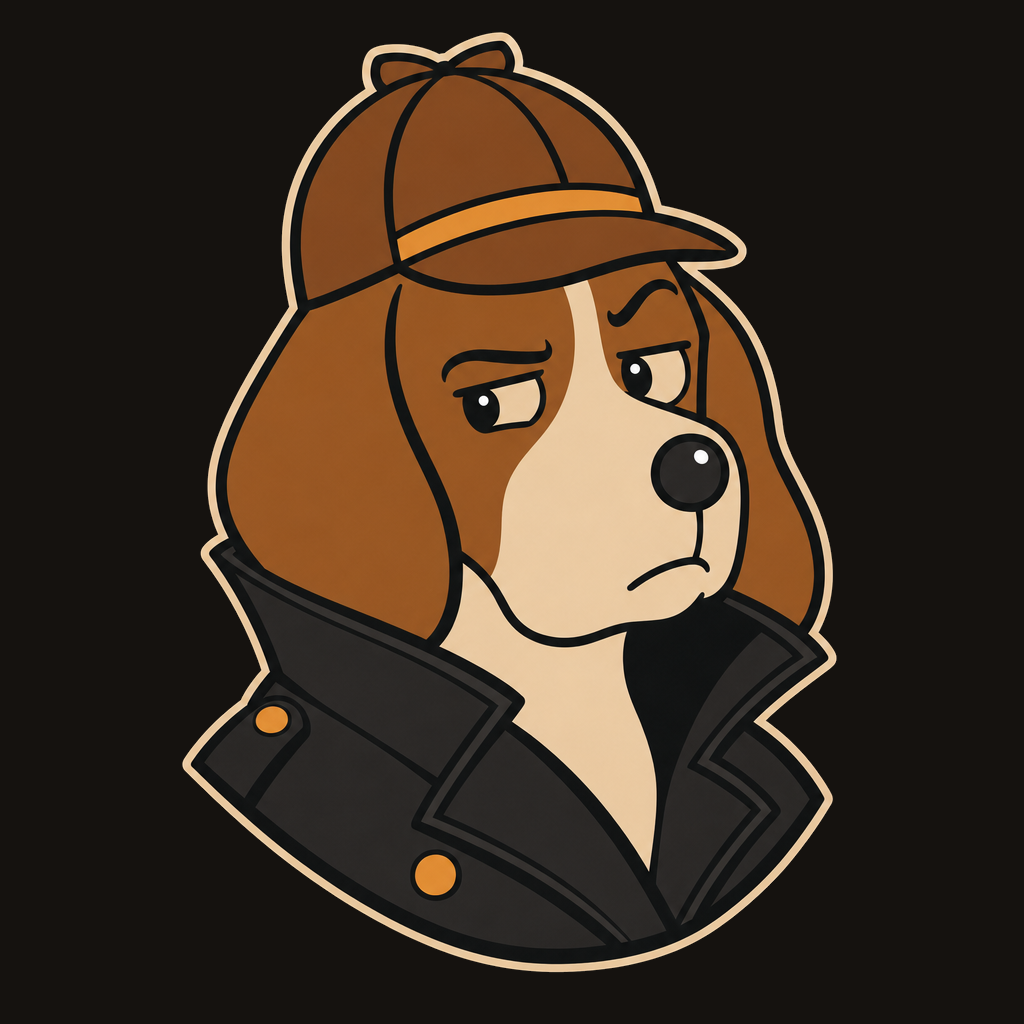
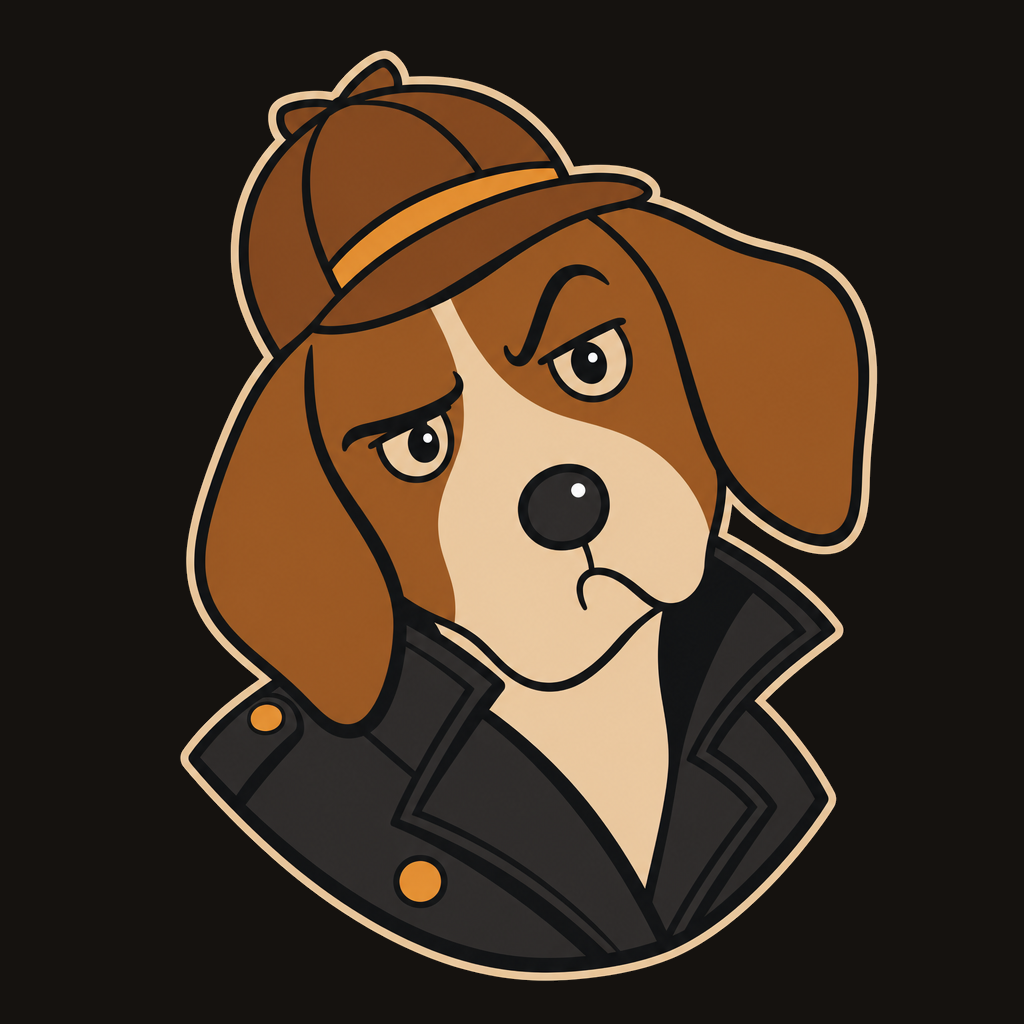
Mascot verdicts: ring + case-file stamp + motion; new SUSPECT face
- Verdict dog gets a colored ring and a CLEARED / SUSPECT / BUSTED stamp;
  the nose no longer changes color (color alone was hard for colorblind users).
- Motion inside the round crop: nod (cleared), shrug (suspect), head shake
  (busted), played twice after the card appears and again on tap; sniff
  bob while loading; disabled under prefers-reduced-motion.
- SUSPECT re-drawn with a strong head tilt and lopsided 'hmm' mouth so it
  reads differently from BUSTED at small sizes.
- Service worker cache bumped to v3.

Claude-Session: https://claude.ai/code/session_01X1qyR4kJrJvFH2XsCXZJ3g

Changed region(s): [[0.1562, 0.0312, 0.875, 0.9688]]

diff --git a/index.html b/index.html
@@ -35,6 +35,23 @@
   .card.show{display:block;animation:pop .25s ease-out}
   @keyframes pop{from{transform:translateY(6px);opacity:0}to{transform:none;opacity:1}}
   .verdict{display:flex;gap:16px;align-items:center}
+  .vdog{position:relative;flex:0 0 auto;cursor:pointer;margin-right:6px}
+  .vdog .ring{stroke:transparent}
+  .vdog[data-v=green]{--v:var(--green)} .vdog[data-v=yellow]{--v:var(--yellow)} .vdog[data-v=red]{--v:var(--red)}
+  .vdog[data-v] .ring{stroke:var(--v)}
+  .stamp{display:none;position:absolute;right:-14px;bottom:-6px;transform:rotate(-12deg);font:800 11px/1 Inter,system-ui,sans-serif;letter-spacing:.12em;padding:4px 6px 3px;border:2px solid currentColor;border-radius:4px;background:rgba(31,26,21,.9);white-space:nowrap}
+  .vdog[data-v] .stamp{display:block;color:var(--v)}
+  /* Mascot motion: the art moves inside the fixed round crop. Units are art pixels (784 ≈ 72 CSS px). */
+  .dog .art,.sniffdog .art{transform-box:view-box;transform-origin:525px 760px}
+  @keyframes nod{0%,100%{transform:none}20%,60%{transform:translateY(60px) rotate(2deg)}40%,80%{transform:translateY(-6px)}}
+  @keyframes shake{0%,100%{transform:none}15%{transform:translateX(-60px) rotate(-4deg)}35%{transform:translateX(60px) rotate(4deg)}55%{transform:translateX(-45px) rotate(-3deg)}75%{transform:translateX(30px) rotate(2deg)}}
+  @keyframes shrug{0%,100%{transform:none}25%,65%{transform:translateY(-50px) rotate(-6deg)}}
+  @keyframes sniff{0%,100%{transform:none}50%{transform:translateY(14px) rotate(1deg)}}
+  .vdog.play[data-v=green] .art{animation:nod 1s ease-in-out .35s 2}
+  .vdog.play[data-v=yellow] .art{animation:shrug 1.4s ease-in-out .35s 2}
+  .vdog.play[data-v=red] .art{animation:shake .9s ease-in-out .35s 2}
+  .loading.show .sniffdog .art{animation:sniff .45s ease-in-out infinite}
+  @media (prefers-reduced-motion:reduce){.dog .art,.sniffdog .art{animation:none!important}}
   .verdict .dog{width:72px;height:72px}
   .verdict h2{font-family:Fraunces,serif;font-weight:800;font-size:24px;margin:0;line-height:1.1}
   .verdict .site{color:var(--muted);font-size:14px;margin-top:6px;word-break:break-all}
@@ -87,7 +104,7 @@
 <body>
 <div class="wrap">
   <header>
-    <svg class="dog" viewBox="133 13 784 784" aria-hidden="true"><image clip-path="url(#bust)" href="art/brisket-idle.svg" width="1024" height="1024"/><circle class="nose" cx="706.0" cy="513.8" r="33.1" fill="#2a2a2a"/><circle class="glint" cx="718.6" cy="497.2" r="7.3" fill="#fff"/></svg>
+    <svg class="dog" viewBox="133 13 784 784" aria-hidden="true"><g clip-path="url(#bust)"><image class="art" href="art/brisket-idle.svg" width="1024" height="1024"/></g></svg>
     <div>
       <h1>Brisket</h1>
       <p>He smells it before you buy it.</p>
@@ -120,7 +137,7 @@
   <button id="showhow" class="showhow" style="display:none">How do I check an ad?</button>
 
   <div id="loading" class="loading">
-    <svg class="sniffdog" viewBox="62 38 900 900" aria-hidden="true"><image href="art/brisket-sniff.svg" width="1024" height="1024"/><circle class="nose" cx="790.1" cy="816.4" r="34.2" fill="#2a2a2a"/><circle class="glint" cx="803.1" cy="799.3" r="7.5" fill="#fff"/></svg>
+    <svg class="sniffdog" viewBox="62 38 900 900" aria-hidden="true"><image class="art" href="art/brisket-sniff.svg" width="1024" height="1024"/></svg>
     <div data-step="0">Fetching the store page…</div>
     <div data-step="1">Checking when the domain was registered…</div>
     <div data-step="2">Looking for who's behind it…</div>
@@ -130,7 +147,7 @@
 
   <section id="card" class="card" aria-live="polite">
     <div class="verdict">
-      <svg class="dog" id="verdictdog" viewBox="133 13 784 784" aria-hidden="true"><image clip-path="url(#bust)" href="art/brisket-idle.svg" width="1024" height="1024"/><circle class="nose" cx="706.0" cy="513.8" r="33.1" fill="#2a2a2a"/><circle class="glint" cx="718.6" cy="497.2" r="7.3" fill="#fff"/></svg>
+      <div class="vdog" id="vdog" title="Tap to replay"><svg class="dog" id="verdictdog" viewBox="133 13 784 784" aria-hidden="true"><g clip-path="url(#bust)"><image class="art" href="art/brisket-idle.svg" width="1024" height="1024"/></g><circle class="ring" cx="525" cy="405" r="380" fill="none" stroke-width="24"/></svg><span class="stamp" id="stamp"></span></div>
       <div>
         <h2 id="headline"></h2>
         <div class="site" id="site"></div>
@@ -169,7 +186,6 @@
   const API = "https://ijerqmyyragkxiphjkqy.supabase.co/functions/v1";
   const $ = (id) => document.getElementById(id);
   const form = $("f"), input = $("url"), go = $("go"), card = $("card"), loading = $("loading"), err = $("err");
-  const colors = { green: "#4fcf7a", yellow: "#f2c14e", red: "#ff5f57", idle: "#2a2a2a" };
   const icons = { good: "✓", warn: "!", bad: "✕", neutral: "·" };
   let current = null, timer = null;
 
@@ -187,17 +203,18 @@
     finally { go.disabled = false; }
   }
 
-  // Mascot expressions: art/brisket-*.svg; the nose is a separate circle so setNose() can tint it.
-  const POSES = {"idle":[706.0,513.8,33.1],"clear":[706.5,503.5,32.9],"unsure":[690.0,471.9,32.3],"nope":[733.6,411.8,32.0]};
+  // Mascot: expression art per verdict, plus the ring + stamp and a short motion (nod / shrug / shake).
   const POSE_FOR = { green: "clear", yellow: "unsure", red: "nope" };
-  function setPose(svg, name){
-    const p = POSES[name] || POSES.idle, [cx, cy, r] = p;
-    svg.querySelector("image").setAttribute("href", "art/brisket-" + (POSES[name] ? name : "idle") + ".svg");
-    const n = svg.querySelector(".nose"), g = svg.querySelector(".glint");
-    n.setAttribute("cx", cx); n.setAttribute("cy", cy); n.setAttribute("r", r);
-    g.setAttribute("cx", (cx + .38 * r).toFixed(1)); g.setAttribute("cy", (cy - .5 * r).toFixed(1)); g.setAttribute("r", (.22 * r).toFixed(1));
+  const STAMP = { green: "CLEARED", yellow: "SUSPECT", red: "BUSTED" };
+  Object.values(POSE_FOR).forEach(n => { new Image().src = "art/brisket-" + n + ".svg"; });
+  function playDog(){ const box = $("vdog"); box.classList.remove("play"); void box.offsetWidth; box.classList.add("play"); }
+  function showVerdict(v){
+    const box = $("vdog");
+    $("verdictdog").querySelector(".art").setAttribute("href", "art/brisket-" + (POSE_FOR[v] || "idle") + ".svg");
+    if (STAMP[v]) { box.dataset.v = v; $("stamp").textContent = STAMP[v]; } else { delete box.dataset.v; }
+    playDog();
   }
-  function setNose(v){ document.querySelectorAll(".nose").forEach(n => n.setAttribute("fill", colors[v] || colors.idle)); }
+  $("vdog").addEventListener("click", playDog);
   function toast(msg){ const t = $("toast"); t.textContent = msg; t.classList.add("show"); setTimeout(() => t.classList.remove("show"), 1800); }
 
   function startLoading(){
@@ -210,7 +227,7 @@
 
   function render(r){
     current = r;
-    setNose(r.verdict); setPose($("verdictdog"), POSE_FOR[r.verdict]);
+    showVerdict(r.verdict);
     $("headline").textContent = r.headline;
     $("site").textContent = (r.title ? decode(r.title) + " — " : "") + r.domain;
     const ul = $("facts"); ul.innerHTML = "";
@@ -249,7 +266,7 @@
   async function check(url){
     if (isSocialLink(url)) {
       err.innerHTML = "That's a link to the post itself, not the store. Tap <b>Shop now</b> on the ad, then share <i>that</i> page to Brisket (or copy its address).";
-      err.style.display = "block"; setNose("idle"); return;
+      err.style.display = "block"; return;
     }
     startLoading(); go.disabled = true;
     try {
@@ -259,12 +276,12 @@
       stopLoading(); render(data);
       try { history.replaceState(null, "", location.pathname + (data.code ? "#c=" + data.code : "")); } catch(e){}
     } catch (e) {
-      stopLoading(); err.textContent = e.message || "Couldn't check that one."; err.style.display = "block"; setNose("idle");
+      stopLoading(); err.textContent = e.message || "Couldn't check that one."; err.style.display = "block";
     } finally { go.disabled = false; }
   }
 
   form.addEventListener("submit", (e) => { e.preventDefault(); const u = input.value.trim(); if (u) check(u); });
-  $("again").addEventListener("click", () => { input.value = ""; card.classList.remove("show"); setNose("idle"); input.focus(); try { history.replaceState(null, "", location.pathname); } catch(e){} });
+  $("again").addEventListener("click", () => { input.value = ""; card.classList.remove("show"); input.focus(); try { history.replaceState(null, "", location.pathname); } catch(e){} });
   $("share").addEventListener("click", async () => {
     const link = shareLink();
     const text = `Brisket checked ${current.domain} — ${current.headline} ${link}`;

diff --git a/sw.js b/sw.js
@@ -1,5 +1,5 @@
 // Minimal service worker: required for "Add to Home Screen" + share target. Network-first, no caching of API calls.
-const CACHE = "brisket-v2";
+const CACHE = "brisket-v3";
 const SHELL = ["./", "./index.html", "./manifest.json", "./icon.svg", "./icon-maskable.svg",
   "./art/brisket-idle.svg", "./art/brisket-clear.svg", "./art/brisket-unsure.svg", "./art/brisket-nope.svg", "./art/brisket-sniff.svg"];
 self.addEventListener("install", (e) => { e.waitUntil(caches.open(CACHE).then((c) => c.addAll(SHELL)).catch(() => {})); self.skipWaiting(); });

diff --git a/README.md b/README.md
@@ -3,7 +3,7 @@
 Share a store link from an Instagram/TikTok ad; get the receipts: domain age, who's behind it, refund policy, pressure tactics, what other people reported.
 
 - `index.html`, `manifest.json`, `sw.js`, `icon*.svg` — the web app (GitHub Pages). Installable on Android; appears in the Share menu.
-- `art/brisket-*.svg` — mascot (idle / clear / unsure / nope / sniff), traced from the PNG masters in `art/source/`. The nose is a separate `.nose` circle in `index.html`, so the page tints it per verdict.
+- `art/brisket-*.svg` — mascot (idle / clear / unsure / nope / sniff), traced from the PNG masters in `art/source/`. The verdict dog swaps expression per result and gets a colored ring, a CLEARED / SUSPECT / BUSTED stamp and a short CSS motion (nod / shrug / shake).
 - `supabase/functions/check` — scoring engine (Supabase Edge Function).
 - `supabase/functions/report` — outcome reports ("arrived / junk / never arrived / refunded").
 
